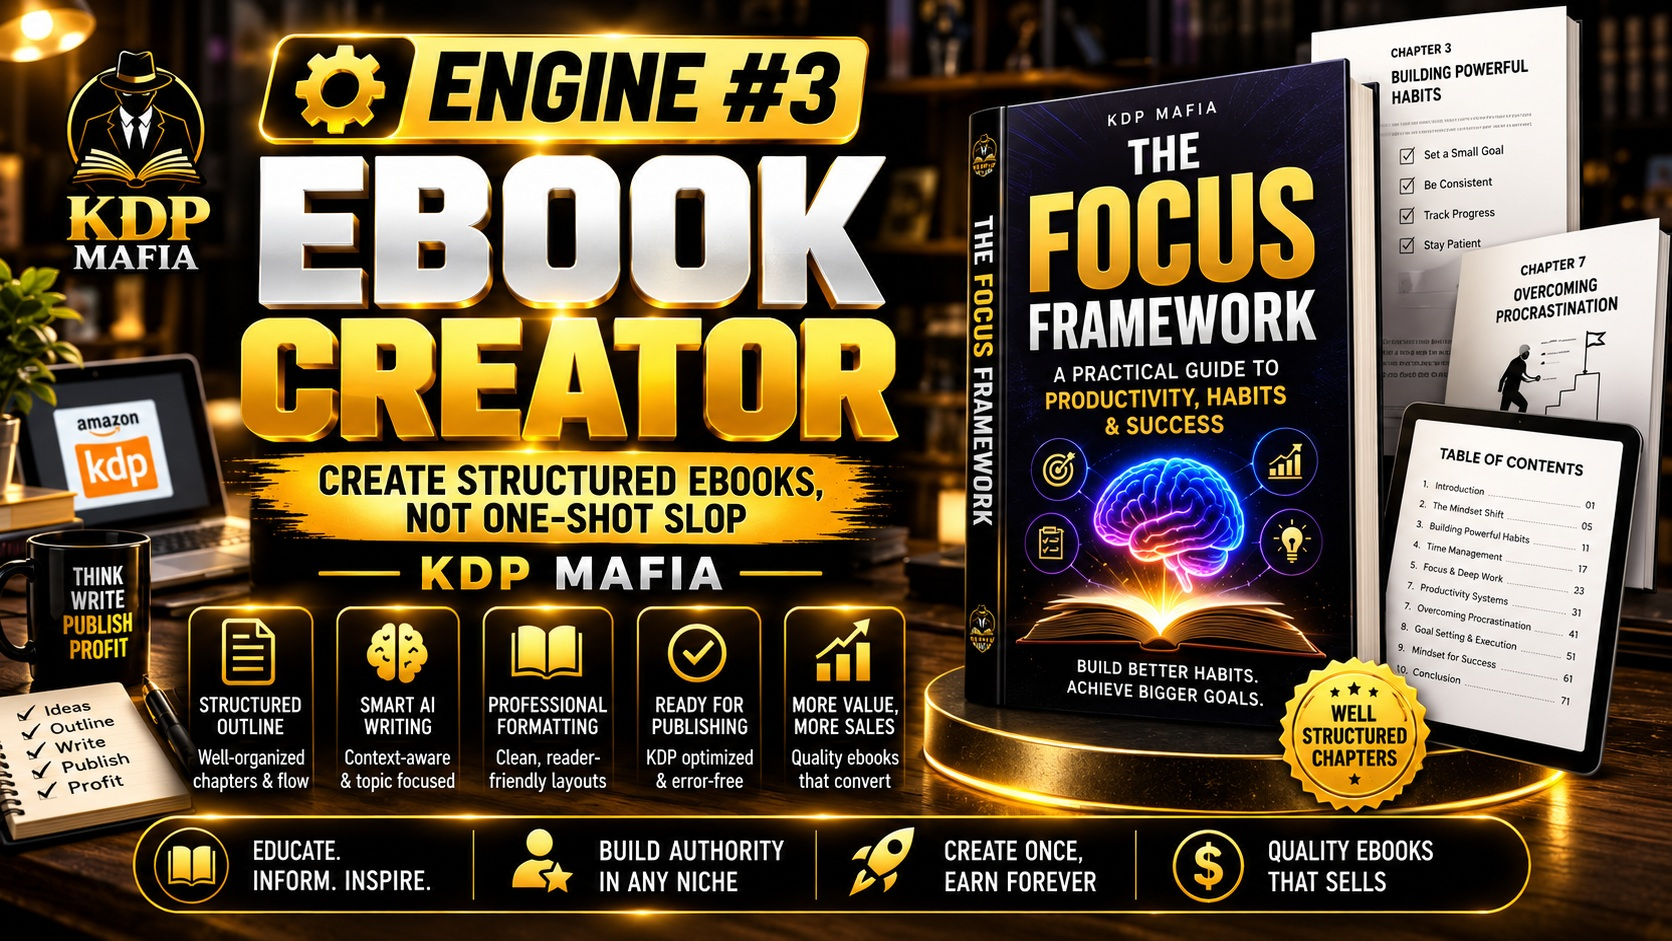
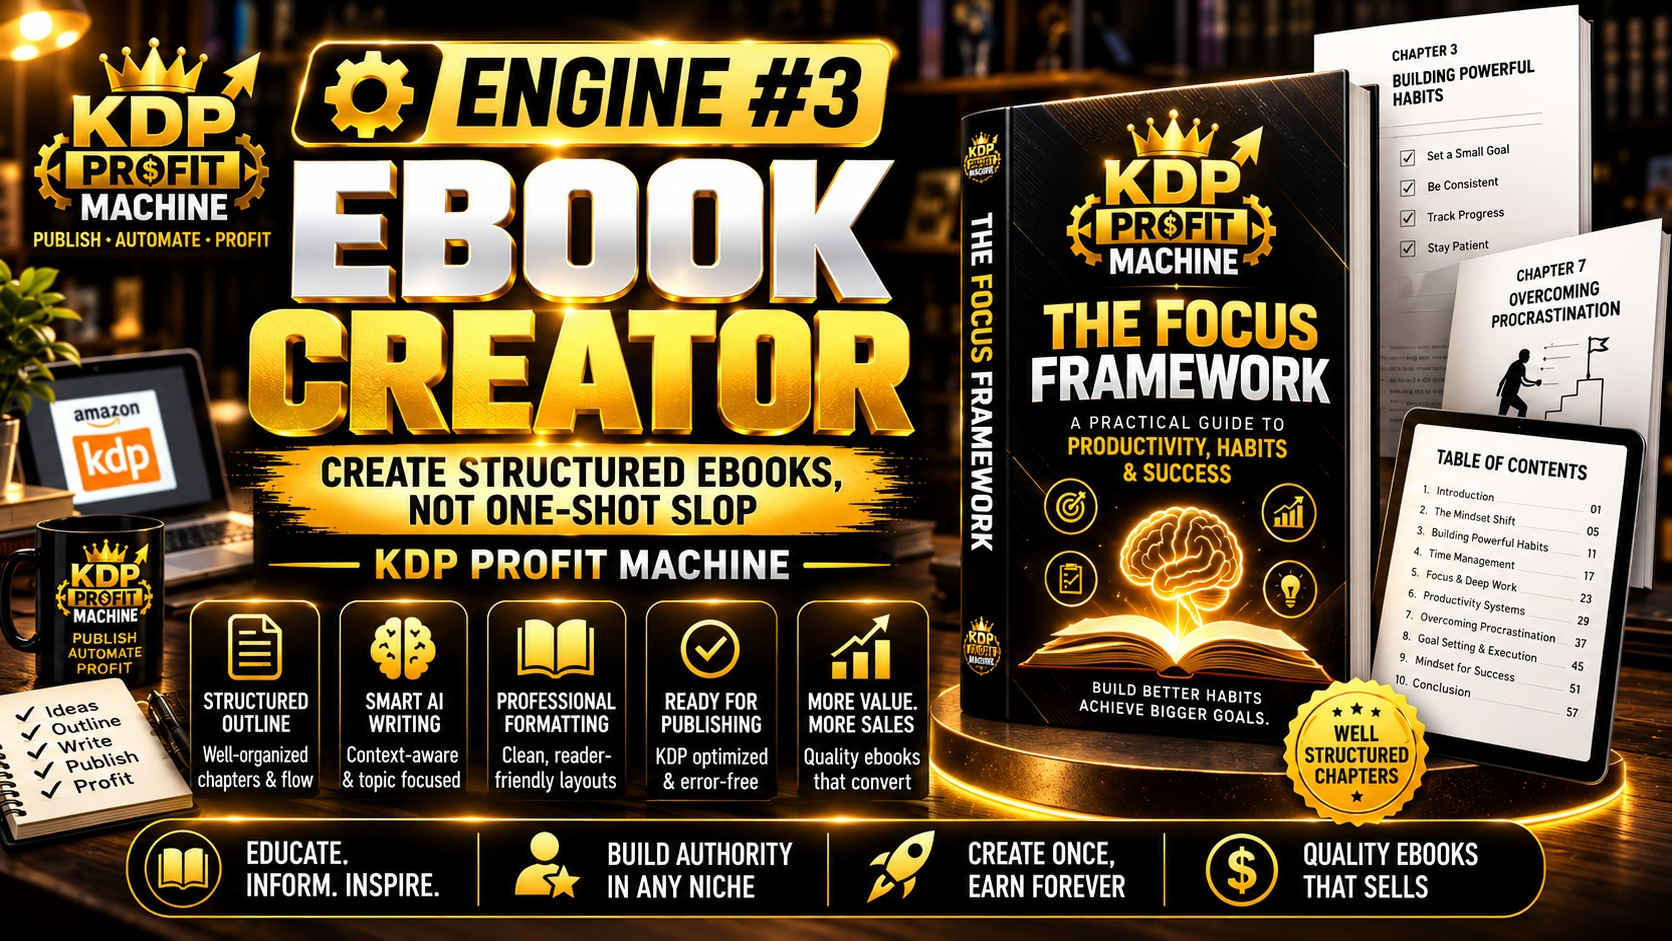
Refresh OTO1 Ebook Creator image

diff --git a/oto1.html b/oto1.html
@@ -120,7 +120,7 @@
 
     <section class="sec-editorial">
       <div class="container feature-split-grid">
-        <div><img src="assets/ebook_creator_oto1.jpg" class="feature-img-frame" alt="Ebook Creator Engine #3 Showcase"></div>
+        <div><img src="assets/ebook_creator_oto1.jpg?v=2" class="feature-img-frame" alt="KDP Profit Machine Ebook Creator Engine #3 Showcase"></div>
         <div>
           <div class="eyebrow-badge">ENGINE #3 — EBOOK CREATOR</div>
           <h2 class="sec-title">Create Structured Ebooks, Not One-Shot Slop</h2>
